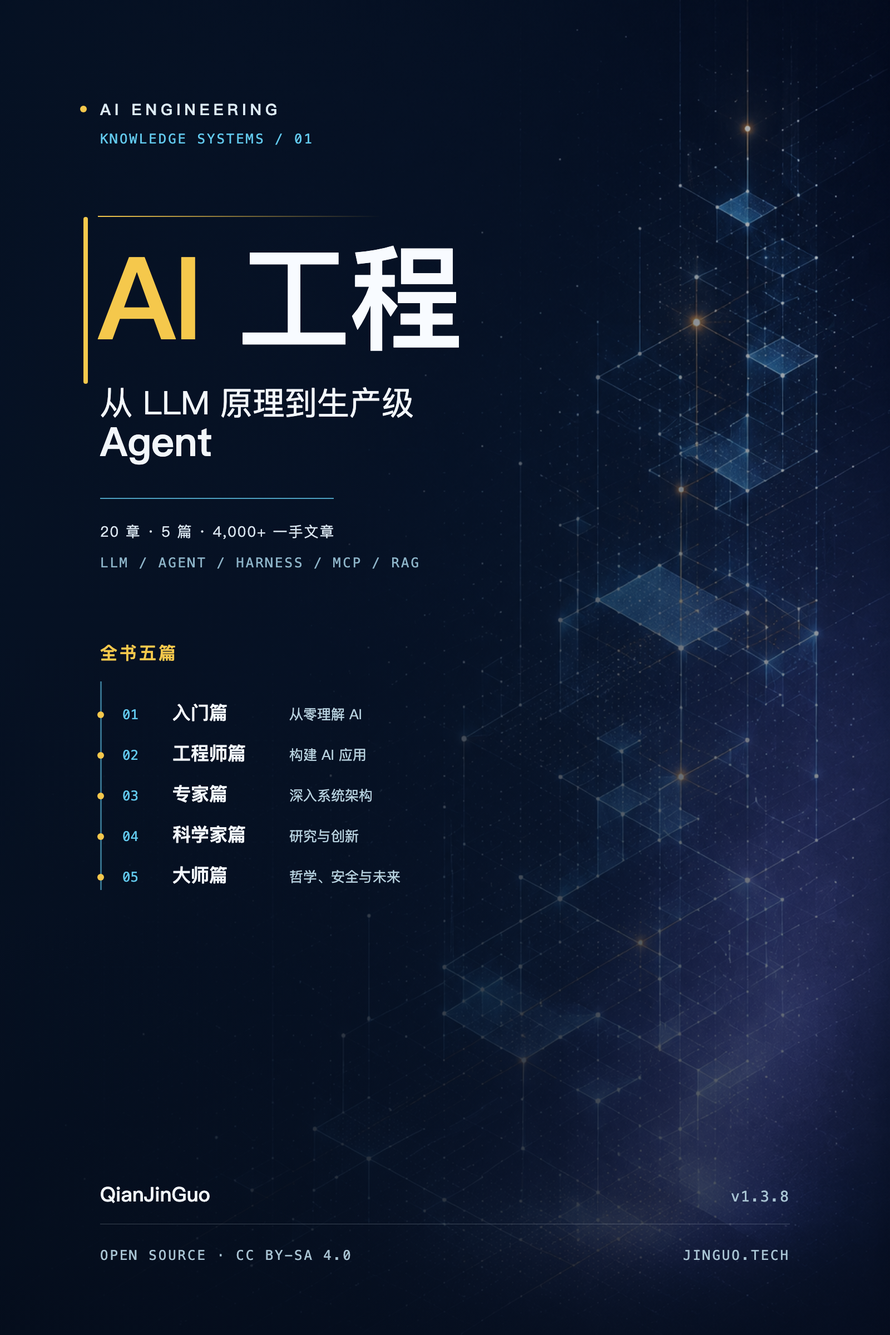
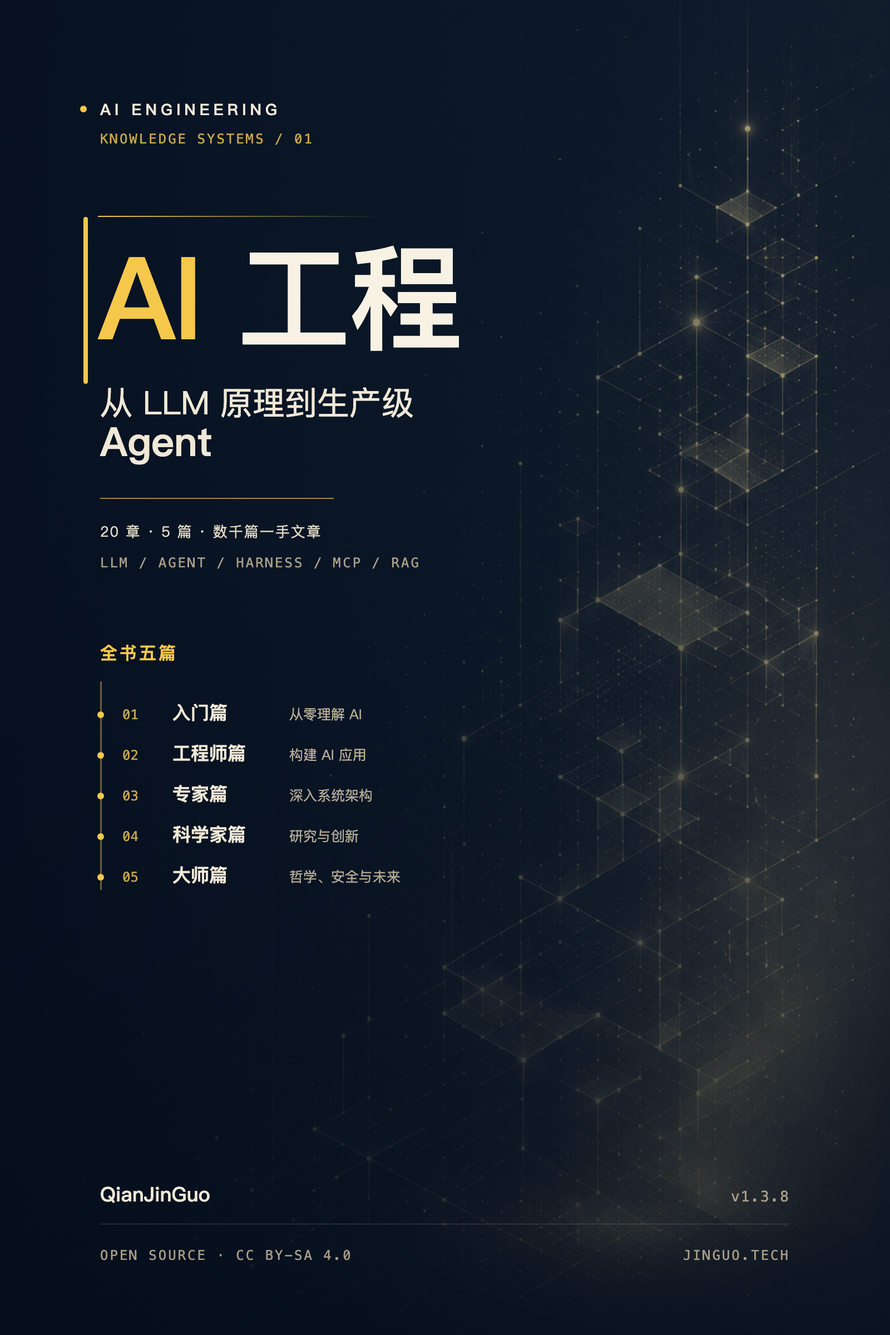
feat(cover): retheme publication covers in the ink-and-gold study palette
Regenerate the art layers as a navy-to-gold duotone (make-art.sh, source
blue renders kept) and rework both SVG layouts from cyan accents and cool
whites to the gold + warm-paper tokens used by the site theme. Refresh
docs assets (1200x630 og/hero cover, 1600x2400 portrait) and the README
homepage screenshot captured from the redesigned site.

diff --git a/cover/README.md b/cover/README.md
@@ -14,17 +14,21 @@
 
 书名、副标题、章节规模和内容范围依据 [jinguo.tech](https://jinguo.tech/) 当前首页信息整理。出版社正式印刷前，还需由责任编辑确认作者署名、ISBN、书号条码、出版社标识、版权页信息、出血线和 CMYK 印刷文件。
 
-## 色彩
+## 色彩（墨金书房 · Ink & Gold，与站点主题一致）
 
-- Midnight navy：`#071426`
-- Cyan：`#48BDEB`
-- Amber：`#F5C84C`
-- Off-white：`#F8FBFF`
+- Midnight navy：`#0A1628`（与首页 Hero 同源）
+- Gold primary：`#F5C84C`
+- Gold muted：`#C9A84C`
+- Warm paper：`#F0E9D9` / 正文 `#EFE8D6`
+- Muted bronze text：`#A99F87` / `#B5AC96`
+
+主视觉图层为金色调 duotone（原蓝青版保留在 `art/*-art.png`），由 `make-art.sh` 从源图重新生成；站点主题 token 见 `overrides/assets/stylesheets/theme.css`。
 
 ## 重新渲染
 
 在仓库根目录执行（需要仓库已有的 Playwright 和 ImageMagick）：
 
 ```bash
-node cover/render.mjs
+bash cover/make-art.sh   # 仅需重生成金色主视觉图层时
+node cover/render.mjs    # 渲染全部尺寸到 cover/exports/
 ```
